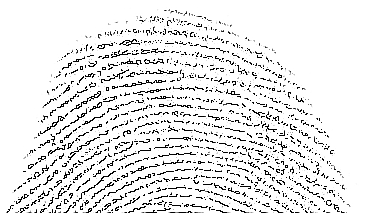
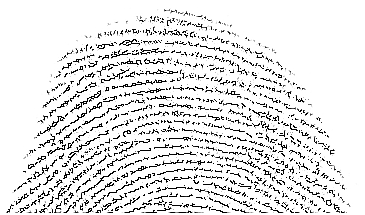
Finished from 1-4

diff --git a/Kim/szakdoga4.py b/Kim/szakdoga4.py
@@ -3,8 +3,6 @@ import numpy as np
 import bcolors
 from Common.functions import imreadgray
 from Common.functions import flip
-from Common.functions import erosion
-from Common.functions import dilation
 from Common.functions import equalmatrix
 from Common.functions import makeequalmatrix
 from Common.functions import countf
@@ -17,7 +15,7 @@ print(" | . \| | | | | | | | |___|  __/  __/ | |____| | | | (_) | |")
 print(" |_|\_\_|_| |_| |_| |______\___|\___|  \_____|_| |_|\___/|_|", bcolors.ENDC)
 
 # Reading in the image as a gray image
-picture = 'fingerprintmini'
+picture = 'test'
 
 img = imreadgray('../Common/' + picture + '.png')
 img2 = imreadgray('../Common/' + picture + '.png')
@@ -30,8 +28,6 @@ O1 = imreadgray('../Common/' + picture + '.png')
 O2 = imreadgray('../Common/' + picture + '.png')
 helper1 = imreadgray('../Common/' + picture + '.png')
 helper2 = imreadgray('../Common/' + picture + '.png')
-helper3 = imreadgray('../Common/' + picture + '.png')
-helper4 = imreadgray('../Common/' + picture + '.png')
 
 # Converting values 0-255
 flip(img)
@@ -57,8 +53,6 @@ for row in range(0, size[0]):
         O2[row][col] = 0
         helper1[row][col] = 0
         helper2[row][col] = 0
-        helper3[row][col] = 0
-        helper4[row][col] = 0
 
 equal = True
 lepes = 1
@@ -71,36 +65,15 @@ print(comp)
 while equal:
 
     # Erosion
-    for row in range(1, size[0] - 1):
-        for col in range(1, size[1] - 1):
-            E[row][col] = erosion(comp, row, col)
+    E = cv2.erode(comp, kernel, iterations=1)
     # print('E:', E)
 
     # Ridge detection
-    for row in range(1, size[0] - 1):
-        for col in range(1, size[1] - 1):
-            O1[row][col] = erosion(comp, row, col)
-            O2[row][col] = erosion(comp, row, col)
+    helper1 = cv2.erode(comp, kernel, iterations=1)
+    helper2 = cv2.erode(comp, kernel2, iterations=1)
 
-    makeequalmatrix(helper1, O1, size)
-    makeequalmatrix(helper2, O2, size)
-
-    for row in range(1, size[0] - 1):
-        for col in range(1, size[1] - 1):
-            O1[row][col] = dilation(helper1, row, col)
-            O2[row][col] = erosion(helper2, row, col)
-
-    makeequalmatrix(helper3, O2, size)
-
-    for row in range(1, size[0] - 1):
-        for col in range(1, size[1] - 1):
-            O2[row][col] = dilation(helper3, row, col)
-
-    makeequalmatrix(helper4, O2, size)
-
-    for row in range(1, size[0] - 1):
-        for col in range(1, size[1] - 1):
-            O2[row][col] = dilation(helper4, row, col)
+    O1 = cv2.dilate(helper1, kernel, iterations=1)
+    O2 = cv2.dilate(helper2, kernel2, iterations=1)
 
     # print('O1:', O1)
     # print('O2:', O2)
@@ -154,34 +127,13 @@ for row in range(0, size[0]):
         O2[row][col] = 0
         helper1[row][col] = 0
         helper2[row][col] = 0
-        helper3[row][col] = 0
-        helper4[row][col] = 0
 
 # Ridge detection
-for row in range(1, size[0] - 1):
-    for col in range(1, size[1] - 1):
-        O1[row][col] = erosion(comp, row, col)
-        O2[row][col] = erosion(comp, row, col)
+helper1 = cv2.erode(comp, kernel, iterations=1)
+helper2 = cv2.erode(comp, kernel2, iterations=1)
 
-makeequalmatrix(helper1, O1, size)
-makeequalmatrix(helper2, O2, size)
-
-for row in range(1, size[0] - 1):
-    for col in range(1, size[1] - 1):
-        O1[row][col] = dilation(helper1, row, col)
-        O2[row][col] = erosion(helper2, row, col)
-
-makeequalmatrix(helper3, O2, size)
-
-for row in range(1, size[0] - 1):
-    for col in range(1, size[1] - 1):
-        O2[row][col] = dilation(helper3, row, col)
-
-makeequalmatrix(helper4, O2, size)
-
-for row in range(1, size[0] - 1):
-    for col in range(1, size[1] - 1):
-        O2[row][col] = dilation(helper4, row, col)
+O1 = cv2.dilate(helper1, kernel, iterations=1)
+O2 = cv2.dilate(helper2, kernel2, iterations=1)
 
 # print('O1:', O1)
 # print('O2:', O2)

diff --git a/Kang_et_al/szakdoga3.py b/Kang_et_al/szakdoga3.py
@@ -7,10 +7,9 @@ from Common.functions import endpoint
 from Common.functions import connectedcorner
 from Common.functions import connectedpath
 from Common.functions import borderpoint
-from Common.functions import connectedcomponents
-from Common.functions import neighbour
 from Common.functions import equalmatrix
 from Common.functions import makeequalmatrix
+from Common.functions import countnotzero
 
 print(bcolors.OK, " _  __                    _____       _       _  ___           ")
 print(" | |/ /                   / ____|     | |     | |/ (_)          ")
@@ -22,7 +21,7 @@ print("                   __/ |                                        ")
 print("                  |___/                                         ", bcolors.ENDC, '\n')
 
 # Beolvasás szürkeárnyalatos képként
-picture = 'fingerprintmini'
+picture = 'chromosomemini'
 
 img = imreadgray('../Common/' + picture + '.png')
 img2 = imreadgray('../Common/' + picture + '.png')
@@ -53,7 +52,6 @@ for row in range(0, size[0]):
     for col in range(0, size[1]):
         psi[row][col] = 0
         skeleton[row][col] = 0
-        helper[row][col] = 0
         img2[row][col] = 0
         psis[row][col] = 0
         matrix[row][col] = 0
@@ -86,8 +84,6 @@ for row in range(1, size[0] - 1):
 
 for row in range(1, size[0] - 1):
     for col in range(1, size[1] - 1):
-        if psi[row][col] == 5:
-            helper[row][col] = 5
         if psi[row][col] >= 6:
             skeleton[row][col] = psi[row][col]
             img2[row][col] = img[row][col]
@@ -134,32 +130,8 @@ for x in range(3):
 for row in range(1, size[0] - 1):
     for col in range(1, size[1] - 1):
         if psi[row][col] == 5:
-                matrix[row][col] = 1
-
-matrix2 = connectedcomponents(matrix2, img2, size)
-print('Skeleton:')
-print(img2)
-
-for row in range(1, size[0] - 1):
-    count = True
-    for col in range(1, size[1] - 1):
-        if img2[row][col] != 0:
-            if matrix[row - 1][col] == 1 and neighbour(matrix2, row, col, matrix2[row][col]):
-                img2[row - 1][col] = img[row - 1][col]
-            if matrix[row - 1][col - 1] == 1 and neighbour(matrix2, row, col, matrix2[row][col]):
-                img2[row - 1][col - 1] = img[row - 1][col - 1]
-            if matrix[row][col - 1] == 1 and neighbour(matrix2, row, col, matrix2[row][col]):
-                img2[row][col - 1] = img[row][col - 1]
-            if matrix[row + 1][col - 1] == 1 and neighbour(matrix2, row, col, matrix2[row][col]):
-                img2[row + 1][col - 1] = img[row + 1][col - 1]
-            if matrix[row + 1][col] == 1 and neighbour(matrix2, row, col, matrix2[row][col]):
-                img2[row + 1][col] = img[row + 1][col]
-            if matrix[row + 1][col + 1] == 1 and neighbour(matrix2, row, col, matrix2[row][col]):
-                img2[row + 1][col + 1] = img[row + 1][col + 1]
-            if matrix[row][col + 1] == 1 and neighbour(matrix2, row, col, matrix2[row][col]):
-                img2[row][col + 1] = img[row][col + 1]
-            if matrix[row - 1][col + 1] == 1 and neighbour(matrix2, row, col, matrix2[row][col]):
-                img2[row - 1][col + 1] = img[row - 1][col + 1]
+            if countnotzero(img2, row, col):
+                img2[row][col] = helper[row][col]
 
 print(bcolors.WARN, 'Skeleton after connectivity restoration:', bcolors.ENDC)
 print(bcolors.ERR, 'Deleted:', deleted, bcolors.ENDC)

diff --git a/Common/functions.py b/Common/functions.py
@@ -626,3 +626,12 @@ def stop(img, img2, helper, size):
         for col in range(1, size[1] - 1):
             if helper[row][col] == 1:
                 img2[row][col] = img[row][col]
+
+
+# If two neighbours has a value grater than 0 than returns true
+def countnotzero(img, row, col):
+    lst = [int(img[row][col + 1]), int(img[row - 1][col + 1]), int(img[row - 1][col]), int(img[row - 1][col - 1]),
+           int(img[row][col - 1]), int(img[row + 1][col - 1]), int(img[row + 1][col]), int(img[row + 1][col + 1])]
+    if sum(x is not 0 for x in lst) == 2:
+        return True
+    return False
